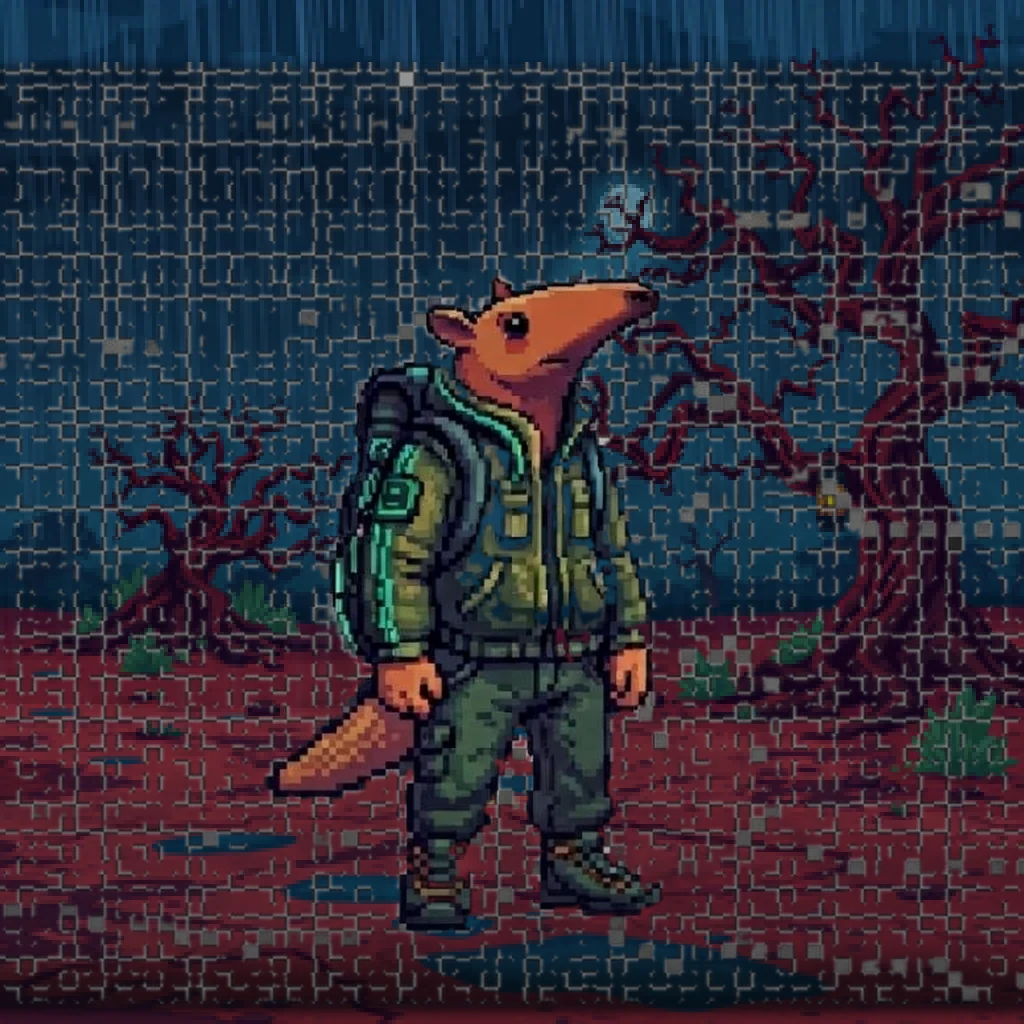
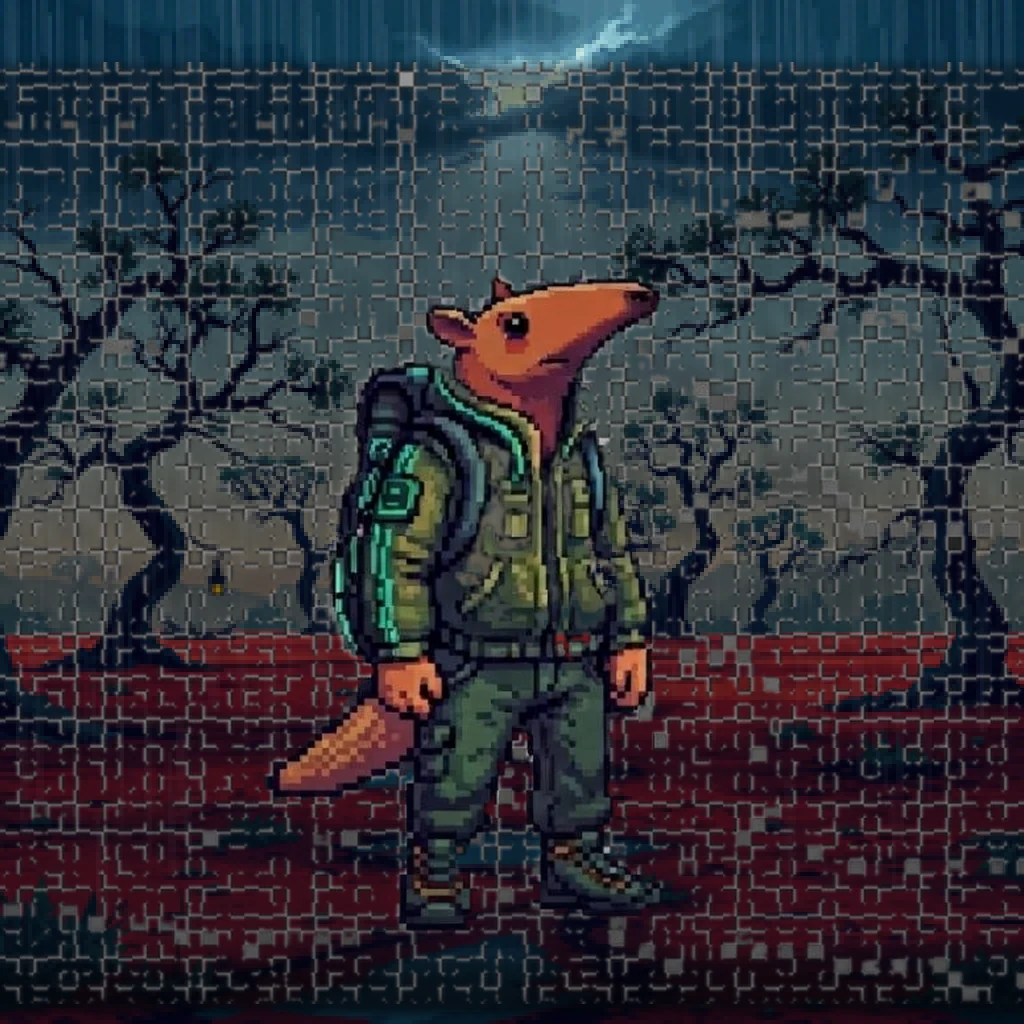
fix: capa AI de a-historia-do-pipeline-update (watchdog)

diff --git a/scripts/cover-sprite-compose.py b/scripts/cover-sprite-compose.py
@@ -141,6 +141,15 @@ GRADE = {
     "observatorio": (1.06, 1.02, 1.10),
 }
 
+NEGATIVE_TAIL = (
+    "No chains, no ropes, no cables, no wires, no fences, no railings, no grids, "
+    "no lattice, no net, no mesh, no hatching, no stripes, no scratches, no "
+    "graffiti, no scaffolding, no ladders, no brackets, no jagged or abstract "
+    "line patterns, no wireframe, no puzzle pieces, no frames, no borders, no "
+    "vignette, no overlays, no checkered pattern, no diagonal lines, no repeated "
+    "linear motifs. Smooth natural environment only."
+)
+
 STYLE_TAIL = (
     "16-bit pixel art game background, chunky visible pixels, limited palette of "
     "warm tan, deep navy and teal, crisp dithering, wide landscape composition, "
@@ -152,7 +161,7 @@ def build_bg_prompt(scene_key, title=""):
     scene = SCENES.get(scene_key)
     if not scene:
         raise SystemExit(f"cena desconhecida: {scene_key} (use --scene)")
-    return f"{scene} {STYLE_TAIL}"
+    return f"{scene} {STYLE_TAIL} {NEGATIVE_TAIL}"
 
 
 def gen_background(prompt, path, tries=3):
@@ -244,6 +253,9 @@ def compose(cover_bg, sprite, w, h, sprite_h_ratio=0.92, scene=None):
     """Sprite ancorado embaixo/centro, com sombra de contato e vinheta inferior."""
     sprite = trim_alpha(sprite)
     cover = pixelate(cover_bg.convert("RGBA"), scene=scene).convert("RGBA")
+    # blur leve no fundo pixelado: remove a leitura de "grade/esquematico"
+    # (o bloco duro do NEAREST li como blueprint de linhas finas)
+    cover = cover.filter(ImageFilter.GaussianBlur(1.1))
     sh = int(h * sprite_h_ratio)
     sw = int(sprite.width * (sh / sprite.height))
     sp = soften_alpha(sprite).resize((sw, sh), _RES)
